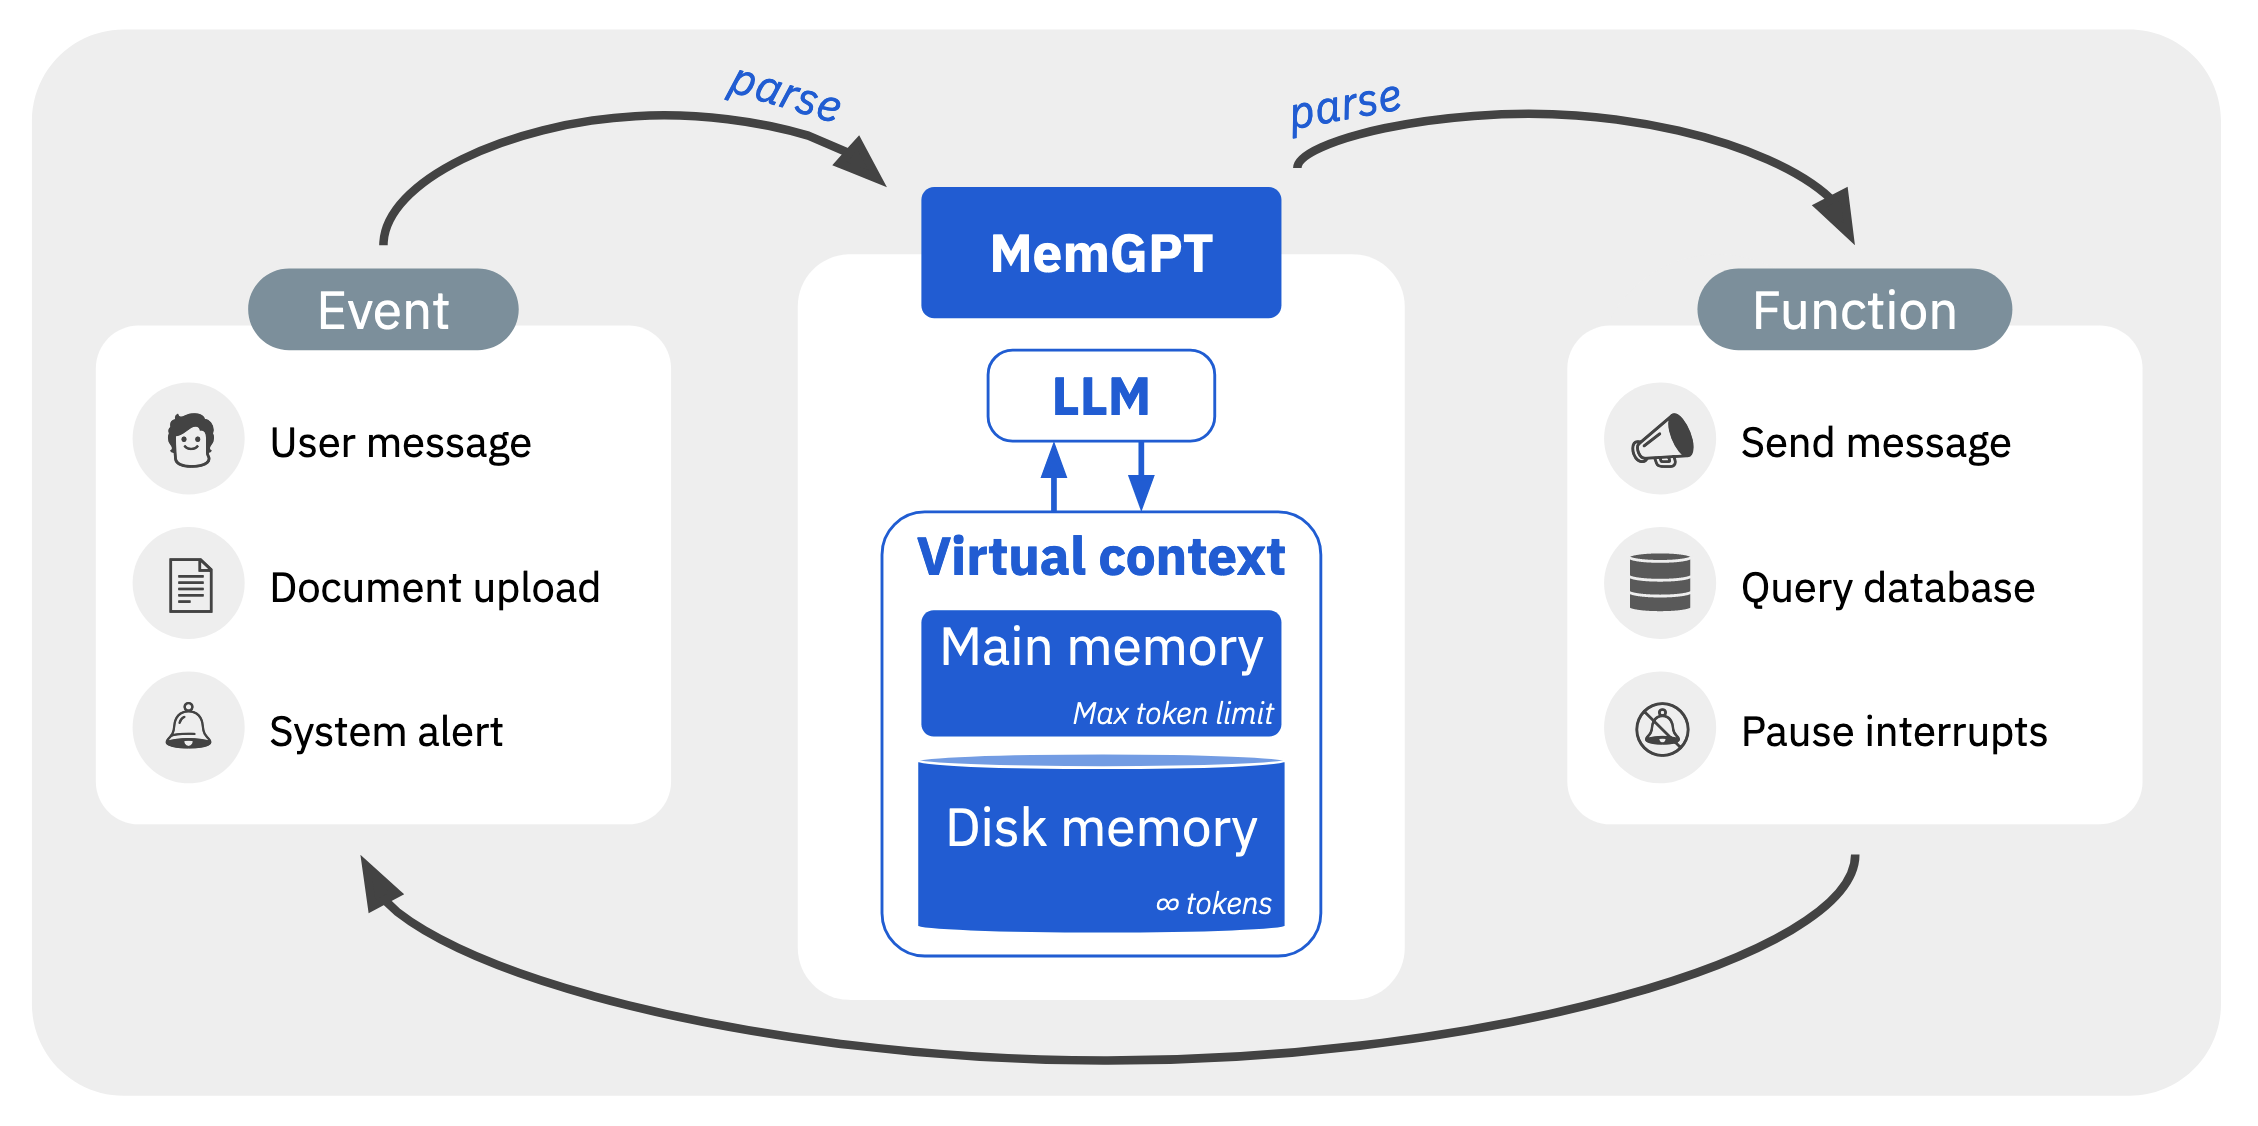
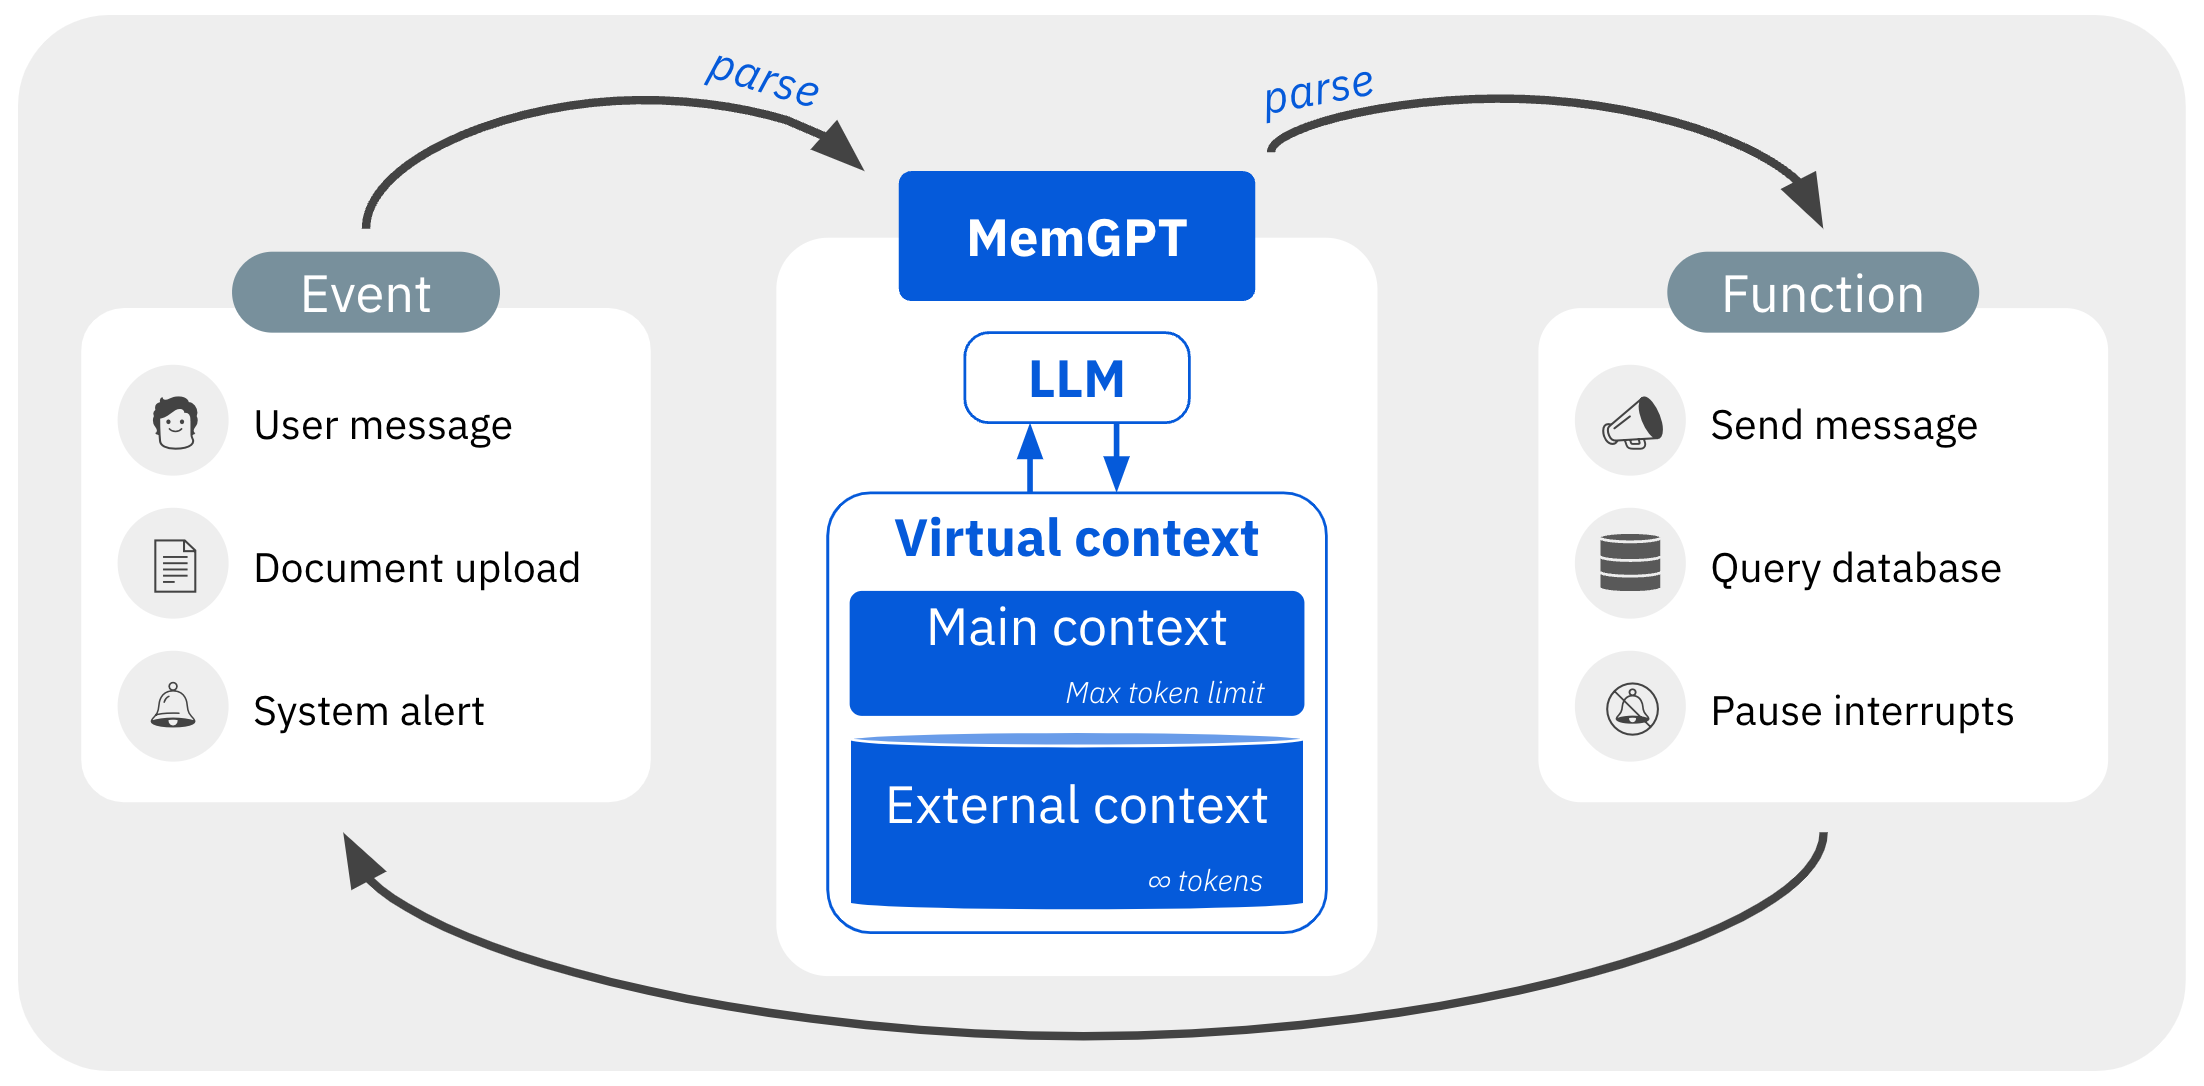
site updates

diff --git a/index.html b/index.html
@@ -36,7 +36,7 @@
                         <a class="text-center" href="https://www.vivi.sh/">Vivian Fang</a>, 
                         <a class="text-center" href="https://shishirpatil.github.io/">Shishir G. Patil</a>, <br>
                         <a class="text-center" href="https://people.eecs.berkeley.edu/~kevinlin/">Kevin Lin</a>, 
-                        <a class="text-center" href="http://sarahwooders.com">Sarah Wooders</a>, 
+                        <a class="text-center" href="https://www.linkedin.com/in/sarah-wooders-9243b0aa/">Sarah Wooders</a>, 
                         <a class="text-center" href="https://people.eecs.berkeley.edu/~jegonzal/">Joseph E. Gonzalez</a>
                         
                     </h4>
@@ -53,7 +53,7 @@
         </div>
         <div><p></p></div>
         <div>
-            <div class="container" style="max-width: 768px;">
+            <div class="container" style="max-width: 850px;">
                 <div class="row">
                     <div class="col-md-12">
                         <h3 class="text-center">Teach LLMs to manage their own memory for unbounded context!</h3>
@@ -67,12 +67,12 @@
             <div class="row">
                 <div class="col-md-12 text-center"><img src="assets/img/memgpt-system-diagram.png" 
                     style="width: 100%;margin-bottom: 8px;" alt="MemGPT system overview">
-                    <em>In MemGPT, a fixed-context LLM is augmented with a tiered memory system and a set of functions that allow it to manage its own memory. 
-                        The LLM inputs text in it's main context (capped at the size of the standard LLM context window), and outputs text that 
-                        is interpreted by a parser, resulting either in a yield or a function call. MemGPT uses functions to move data between main 
-                        context and external context. When the LLM generates a function call, it can request immediate return of 
-                        execution to chain together functions. In the case of a yield, the LLM will not be run again until the next external 
-                        event trigger (e.g. a user message or scheduled interrupt).
+                    <em>
+                        In MemGPT, a fixed-context LLM processor is augmented with a tiered memory system and a set of functions that allow it to manage its own memory. 
+                        Main context is the (fixed-length) LLM input.
+                        MemGPT parses the LLM text ouputs at each processing cycle, and either yields control or executes a function call, which can be used to move data between main and external context.
+                        When the LLM generates a function call, it can request immediate return of execution to chain together functions.
+                        In the case of a yield, the LLM will not be run again until the next external event trigger (e.g. a user message or scheduled interrupt).
                     </em>
                 </div>
             </div>
@@ -85,10 +85,9 @@
             <div class="col-md-12">
                 <h2>Overview</h2>
                 <ul>
-                    <li>LLMs are increasingly being used for perpetual chats. </li>
-                    <li>Challenge: Limited context length makes perpetual chat challenging.</li>
-                    <li>Inspired by memory management in OS, MemGPT uses RAM (in-context), and Disk (Archival) memory to effeciently manage 
-                        the limited context length. </li>
+                    <li>LLMs are increasingly being used for perpetual chats </li>
+                    <li>Limited context lengths makes perpetual chat challenging</li>
+                    <li>MemGPT manages a <mark>virtual context</mark> (inspired by virtual memory in operating systems) to create unbounded LLM context</li>
                    <li><mark>With MemGPT, we demonstrate that LLMs can be taught to manage their own memory!</mark>
                     </li>
                 </ul>
@@ -101,20 +100,7 @@
             <div class="col-md-12">
                 <h2>Abstract</h2>
                 <p>
-                    Large language models (LLMs) have revolutionized AI but are constrained by
-                    limited context windows, hindering their utility in tasks like extended conversa-
-                    tions and document analysis. Drawing inspiration from the hierarchical memory
-                    systems in traditional operating systems, we introduce MemGPT (Memory-GPT).
-                    Similar to how an operating system (OS) provides the illusion of large memory
-                    resources through data movement between fast and slow memory, MemGPT man-
-                    ages tiers of memory to effectively manage extended context within the language
-                    model's limited context window, and utilizes interrupts to manage control flow
-                    between itself and the user. We evaluate our OS-inspired design in two domains
-                    where the limited context windows of modern LLMs severely handicaps their per-
-                    formance: document analysis, where MemGPT is able to analyze large documents
-                    that far exceed the underlying LLM's context limit, and multi-session chat, where
-                    MemGPT enables conversational agents to remember, reflect, and evolve dynam-
-                    ically through long-term interactions with their users. Code and Data is available at https://memgpt.ai
+                    Large language models (LLMs) have revolutionized AI, but are constrained by limited context windows, hindering their utility in tasks like extended conversations and document analysis. To enable using context beyond limited context windows, we propose virtual context management, a technique drawing inspiration from hierarchical memory systems in traditional operating systems that provide the appearance of large memory resources through data movement between fast and slow memory. Using this technique, we introduce MemGPT (Memory-GPT), a system that intelligently manages different memory tiers in order to effectively provide extended context within the LLM's limited context window, and utilizes interrupts to manage control flow between itself and the user. We evaluate our OS-inspired design in two domains where the limited context windows of modern LLMs severely handicaps their performance: document analysis, where MemGPT is able to analyze large documents that far exceed the underlying LLM's context window, and multi-session chat, where MemGPT can create conversational agents that remember, reflect, and evolve dynamically through long-term interactions with their users. We release MemGPT code and data for our experiments at <a href="https://memgpt.ai" style="color: inherit;">https://memgpt.ai</a>.
                 <br>
                 </p>
             </div>
